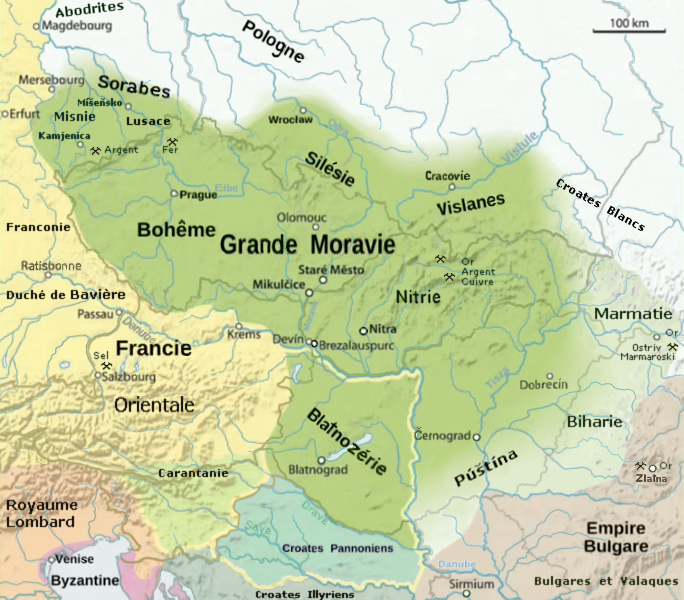
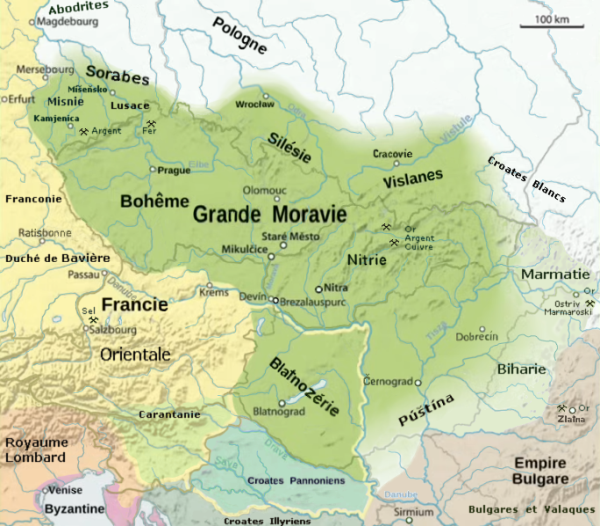
О дѣлѣ

diff --git a/app/[lang]/o-projektu/page.tsx b/app/[lang]/o-projektu/page.tsx
@@ -33,10 +33,10 @@ export default function AboutPage({ params }: AboutPageProps) {
           <h2>{t.navAbout}</h2>
           <p>
             Училище Блатьнограда je zamišljena slovenska filozofska
-            škola iz 9. veka koje se nalazila u Blatnogradu, tadašnjem sedištu
+            škola iz 9. veka koja se nalazila u Blatnogradu, tadašnjem sedištu
             panonskih Slovena i jednom od prvih središta slovenske pismenosti. Ovaj projekat pokušava dočarati kako
-            bi izgledao studij filozofije da su Sloveni imali univerzitete u
-            srednjem veku, i kakav bi bio učeni slovenski jezik toga vremena.
+            bi izgledalo izučavanje filozofije da su Sloveni imali univerzitete u
+            srednjem veku, i kako bi zvučao učeni slovenski jezik toga vremena.
           </p>
 
           <figure>
@@ -44,21 +44,21 @@ export default function AboutPage({ params }: AboutPageProps) {
             <figcaption>Učilište Blatnograda, savremena rekonstrukcija</figcaption>
           </figure>
 
-           <p>
-            U Blatnogradu su u 9. veku boravili Konstantin
-            Filozof (poznat kao Ćirilo) i brat njegov Metodije, koji su doneli pismo Slovenima. Tu su osnovali slovensku školu sa 50-ak učenika, a grad je postao značajno središte slovenske pismenosti. 
-          </p>
-
-          <figure>
-            <img src="/images/Bratia_sv._Cyril_a_Metod_Sečovce_19_Slovensko.jpg" alt="Kiril i Metod" />
-            <figcaption>Konstantin Filozof i brat njegov Metod, donositelji pismenosti.</figcaption>
-          </figure>
-
           <p>Blatnograd, na obali Blatnog jezera, bio je prestonica Blatenske zemlje (Блатьньскъ), koja je povezivala južne i zapadne Slovene pre dolaska Ugara.</p>
 
           <figure>
             <img src="/images/Grande_Moravie.png" alt="Blatenska i Velika Moravska" />
             <figcaption>Blatenska zemlja između Hrvatske i Velike Moravske.</figcaption>
+          </figure>
+
+          <p>
+            U Blatnogradu su u 9. veku boravili Konstantin
+            Filozof (poznat kao Ćirilo) i brat njegov Metodije, koji su doneli pismo Slovenima. Tu su osnovali slovensku školu sa 50-ak učenika, a grad je postao značajno središte slovenske pismenosti. Pored biblijskih tekstova, Sloveni su rano prevodili mudre i filozofske izreke, a ta tradicija je u narednim vekovima nastavljena i sačuvana u zbirkama kao što su Разѹми Менандра, Pčela i Razumi helenskih filozofa. To je slovenska filozofska tradicija koju mi nastavljamo.
+          </p>
+
+          <figure>
+            <img src="/images/Bratia_sv._Cyril_a_Metod_Sečovce_19_Slovensko.jpg" alt="Kiril i Metod" />
+            <figcaption>Konstantin Filozof i brat njegov Metod, donositelji slovenske pismenosti.</figcaption>
           </figure>
         </article>
       </section>

diff --git a/app/layout.tsx b/app/layout.tsx
@@ -4,8 +4,8 @@ import { Providers } from '../components/Providers';
 import '../styles/globals.scss';
 
 export const metadata: Metadata = {
-  title: 'Učilište Blatnograda',
-  description: 'Static quote site generator',
+  title: 'Училище Блатьнограда',
+  description: 'Slovensko učilište mudrosti',
 };
 
 interface RootLayoutProps {

diff --git a/styles/globals.scss b/styles/globals.scss
@@ -11,6 +11,14 @@ body {
   color: $color-text;
 }
 
+img {
+  max-width: 100%;
+}
+
+figcaption {
+  color: $color-text-light;
+}
+
 .page-shell {
   display: flex;
   min-height: 100vh;

diff --git a/README.md b/README.md
@@ -25,7 +25,5 @@ npm start
 
 Glavni TODO nalazi se u [TODO.md](TODO.md).
 
-- istražiti odakle izreke jelinskih filozofa?
-
 ## Izvori
 
